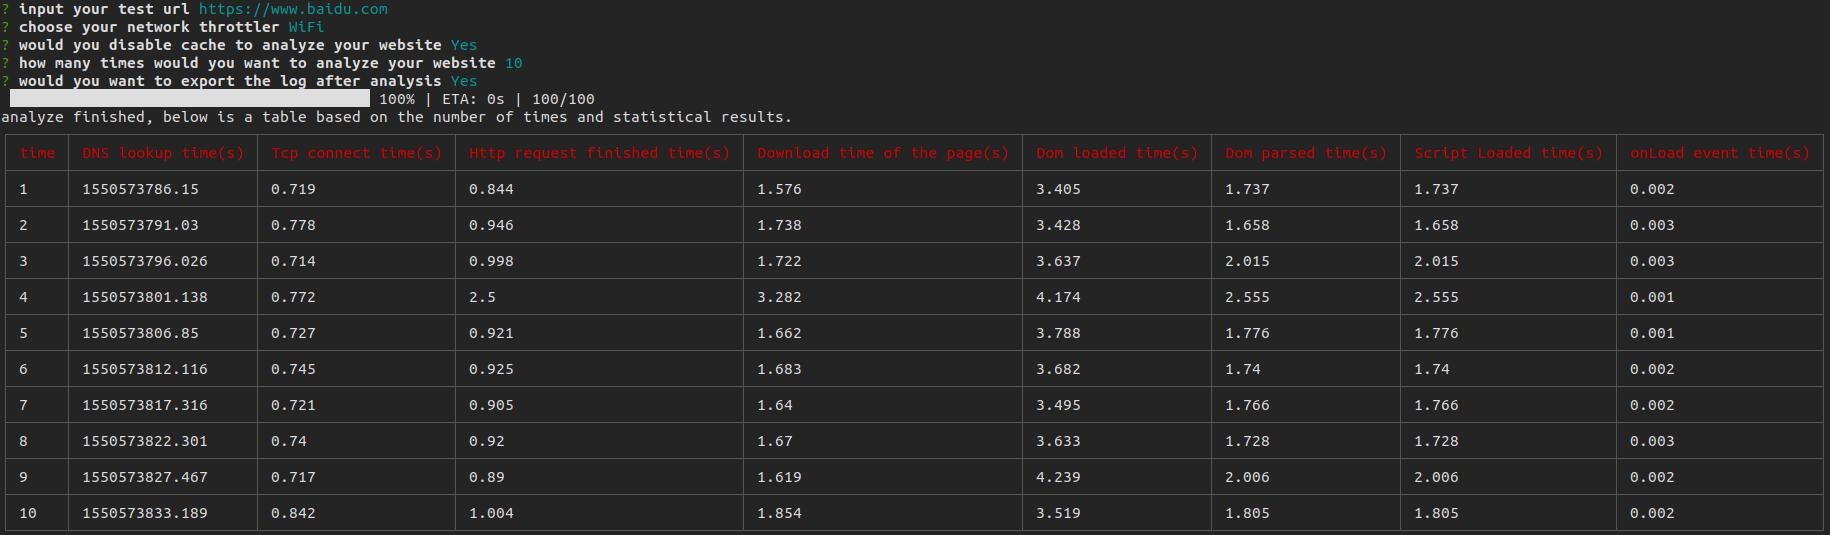
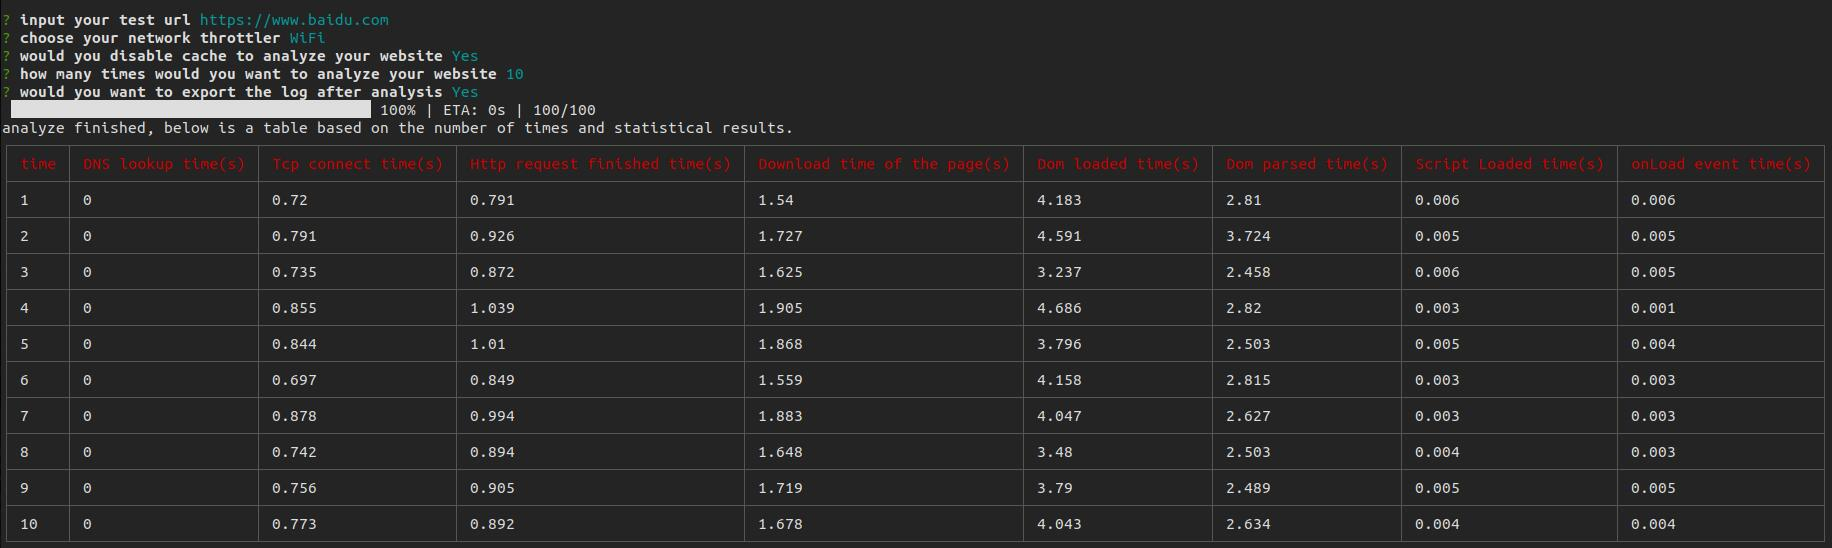
fixed bugs

Changed region(s): [[0.0, 0.0, 0.9967, 0.8374], [0.0, 0.8673, 0.9967, 1.0]]

diff --git a/bin/analyzer/analyzer.js b/bin/analyzer/analyzer.js
@@ -102,10 +102,10 @@ class Analyzer {
         timingObj['Tcp connect time'] = _lodash2.default.divide(_lodash2.default.subtract(timing.connectEnd, timing.connectStart), 1000);
         timingObj['Http request finished time'] = _lodash2.default.divide(_lodash2.default.subtract(timing.responseEnd - timing.requestStart), 1000);
         timingObj['Download time of the page'] = _lodash2.default.divide(_lodash2.default.subtract(timing.responseEnd - timing.navigationStart), 1000);
-        timingObj['Dom loaded time'] = _lodash2.default.divide(_lodash2.default.subtract(timing.domComplete - timing.domLoading), 1000);
-        timingObj['Dom parsed time'] = _lodash2.default.divide(_lodash2.default.subtract(timing.domInteractive - timing.domLoading), 1000);
-        timingObj['Script Loaded time'] = _lodash2.default.divide(_lodash2.default.subtract(timing.domInteractive - timing.domLoading), 1000);
-        timingObj['onLoad event time'] = _lodash2.default.divide(_lodash2.default.subtract(timing.loadEventEnd - timing.loadEventStart), 1000);
+        timingObj['Dom loaded time'] = _lodash2.default.divide(_lodash2.default.subtract(timing.domComplete, timing.domLoading), 1000);
+        timingObj['Dom parsed time'] = _lodash2.default.divide(_lodash2.default.subtract(timing.domInteractive, timing.domLoading), 1000);
+        timingObj['Script Loaded time'] = _lodash2.default.divide(_lodash2.default.subtract(timing.domContentLoadedEventEnd, timing.domContentLoadedEventStart), 1000);
+        timingObj['onLoad event time'] = _lodash2.default.divide(_lodash2.default.subtract(timing.loadEventEnd, timing.loadEventStart), 1000);
 
         return timingObj;
     }

diff --git a/src/analyzer/analyzer.js b/src/analyzer/analyzer.js
@@ -71,10 +71,10 @@ export default class Analyzer {
         timingObj['Tcp connect time'] = lodash.divide(lodash.subtract(timing.connectEnd, timing.connectStart), 1000);
         timingObj['Http request finished time'] = lodash.divide(lodash.subtract(timing.responseEnd - timing.requestStart), 1000);
         timingObj['Download time of the page'] = lodash.divide(lodash.subtract(timing.responseEnd - timing.navigationStart), 1000);
-        timingObj['Dom loaded time'] = lodash.divide(lodash.subtract(timing.domComplete - timing.domLoading), 1000);
-        timingObj['Dom parsed time'] = lodash.divide(lodash.subtract(timing.domInteractive - timing.domLoading), 1000);
-        timingObj['Script Loaded time'] = lodash.divide(lodash.subtract(timing.domInteractive - timing.domLoading), 1000);
-        timingObj['onLoad event time'] = lodash.divide(lodash.subtract(timing.loadEventEnd - timing.loadEventStart), 1000);
+        timingObj['Dom loaded time'] = lodash.divide(lodash.subtract(timing.domComplete, timing.domLoading), 1000);
+        timingObj['Dom parsed time'] = lodash.divide(lodash.subtract(timing.domInteractive, timing.domLoading), 1000);
+        timingObj['Script Loaded time'] = lodash.divide(lodash.subtract(timing.domContentLoadedEventEnd, timing.domContentLoadedEventStart), 1000);
+        timingObj['onLoad event time'] = lodash.divide(lodash.subtract(timing.loadEventEnd, timing.loadEventStart), 1000);
 
         return timingObj;
     }

diff --git a/bin/analyzer/logger.js b/bin/analyzer/logger.js
@@ -26,6 +26,12 @@ class Logger {
             if (!_this.enable) {
                 return;
             }
+            console.log(JSON.stringify({
+                logs
+            }, null, 2));
+            yield fse.writeJson(_this.logPath, {
+                logs
+            });
         })();
     }
 

diff --git a/bin/index.js b/bin/index.js
@@ -49,7 +49,7 @@ inquirer.prompt([{
 }, {
     name: 'network',
     message: 'choose your network throttler',
-    choices: _lodash2.default.keys(_network2.default),
+    choices: _lodash2.default.keys(_network2.default).reverse(),
     type: 'list'
 }, {
     name: 'cache',

diff --git a/src/analyzer/logger.js b/src/analyzer/logger.js
@@ -11,6 +11,12 @@ export default class Logger {
         if (!this.enable) {
             return;
         }
+        console.log(JSON.stringify({
+            logs
+        }, null, 2));
+        await fse.writeJson(this.logPath, {
+            logs
+        });
     }
 
 }

diff --git a/src/index.js b/src/index.js
@@ -35,7 +35,7 @@ inquirer.prompt([
     {
         name: 'network',
         message: 'choose your network throttler',
-        choices: lodash.keys(netWorks),
+        choices: lodash.keys(netWorks).reverse(),
         type: 'list'
     },
     {

diff --git a/README.md b/README.md
@@ -20,17 +20,16 @@ siper
 
 #### 各项指标对应中文介绍
 
-|显示名称|中文含义|
-|---|----|
-|DNS lookup time|DNS查询时间|
-|Tcp connect time|TCP完成握手时间|
-|Http request finished Time|HTTP请求响应完成时间|
-|Download time of the page|DOM开始加载前所花费时间|
-|Dom loaded time|DOM加载完成时间|
-|Dom parsed time|DOM结构解析完成时间|
-|Script Loaded time|脚本加载时间|
-|Onload event time|onload事件时间|
-|Load time|页面完全加载时间|
+|显示名称|中文含义|换算|
+|---|----|----|
+|DNS lookup time|DNS查询时间|`timing.domainLookupEnd - timing.domainLookupStart`|
+|Tcp connect time|TCP完成握手时间|`timing.connectEnd - timing.connectStart`|
+|Http request finished Time|HTTP请求响应完成时间|`timing.responseEnd - timing.requestStart`|
+|Download time of the page|DOM开始加载前所花费时间|`timing.responseEnd - timing.navigationStart`|
+|Dom loaded time|DOM加载完成时间|`timing.domComplete - timing.domLoading`|
+|Dom parsed time|DOM结构解析完成时间|`timing.domInteractive - timing.domLoading`|
+|Script Loaded time|脚本加载时间|`timing.domContentLoadedEventEnd - timing.domContentLoadedEventStart`|
+|Onload event time|onload事件时间|`timing.domInteractive - timing.domLoading`|
 
 #### 网络模式对应相关速率
 
